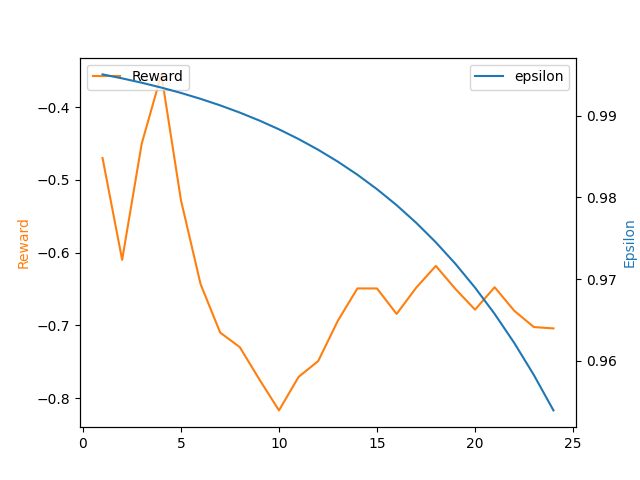
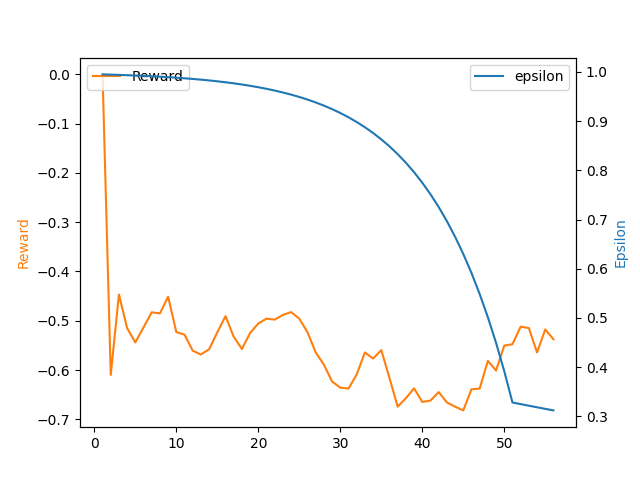
more clean up

diff --git a/sumo_mmrl/environment/env.py b/sumo_mmrl/environment/env.py
@@ -4,6 +4,7 @@ import numpy as np
 from .vehicle import Vehicle
 from .person import Person
 from ..connector.connect import SUMOConnection
+from ..connector.utility import Utility
 
 
 class Basic:
@@ -13,18 +14,17 @@ class Basic:
     _extended_summary_
     """
 
-    def __init__(self, sumocon: str, steps_per_episode) -> None:
-        self.sumo_con = SUMOConnection(sumocon)
-        (
-            self.out_dict,
+    def __init__(self, path, sumocon, steps_per_episode) -> None:
+        self.util = Utility()
+        self.sumo_con = SUMOConnection(path + sumocon)
+        (   self.out_dict,
             self.index_dict,
             self.edge_list,
             self.edge_position,
         ) = self.sumo_con.get_edges_info()
 
         self.steps_per_episode = steps_per_episode
-        self.episode_count = 0
-        
+
         self.done = False
         self.make_choice_flag = False
         self.vehicle = None
@@ -35,6 +35,14 @@ class Basic:
         self.agent_step = 0
         self.old_edge = None
         self.sumo = None
+        self.path = path
+        self.accumulated_reward = 0
+        self.rewards = []
+        self.eps_history = []
+        self.vehicles = []
+        
+        # for v_id in range(10):
+        #     self.vehicles.append(Vehicle(str(v_id), self.out_dict, self.index_dict, self.sumo))
 
     def reset(self):
         """
@@ -48,9 +56,12 @@ class Basic:
         self.steps = 0
         self.agent_step = 0
         self.route = []
-        # self.sumo.simulationStep()
-
-        self.vehicle = Vehicle("1", self.out_dict, self.index_dict, self.sumo)
+        self.vehicles = []
+        self.accumulated_reward = 0
+        for v_id in range(1):
+            self.vehicles.append(Vehicle(str(v_id), self.out_dict, self.index_dict, self.sumo))
+        self.vehicle = self.vehicles[0]
+        
         # self.vehicle.random_relocate()
         self.sumo.simulationStep()
         self.steps += 1
@@ -94,16 +105,14 @@ class Basic:
         """
         self.sumo.simulationStep()
         self.steps += 1
-        
-        vedge = self.sumo.vehicle.getRoadID("1")
-        pedge = self.sumo.person.getRoadID("p_0")
+
+        vedge = self.sumo.vehicle.getRoadID(self.vehicle.vehicle_id)
 
         if ":" in vedge or self.old_edge == vedge:
             self.make_choice_flag = False
         else:
             self.make_choice_flag = True
-        if vedge == pedge:
-            self.done = True
+
         if self.steps >= self.steps_per_episode:
             self.done = True
 
@@ -121,23 +130,24 @@ class Basic:
         Returns:
             _description_
         """
-        
+
         reward = 0
         if self.make_choice_flag:
             self.vehicle.set_destination(action)
             reward += -0.01
+            self.accumulated_reward += reward
             self.agent_step += 1
             self.make_choice_flag = False
-        
+
         self.sumo.simulationStep()
         self.steps += 1
-        vedge = self.sumo.vehicle.getRoadID("1")
+        vedge = self.sumo.vehicle.getRoadID(self.vehicle.vehicle_id)
         vloc = self.vehicle.location()
         ploc = self.person.location()
         choices = self.vehicle.get_out_dict()
         distance = math.dist(vloc, ploc)
 
-        vedge = self.sumo.vehicle.getRoadID("1")
+        vedge = self.sumo.vehicle.getRoadID(self.vehicle.vehicle_id)
         pedge = self.sumo.person.getRoadID("p_0")
         self.route.append(vedge)
 
@@ -145,21 +155,18 @@ class Basic:
 
         if vedge == pedge:
             self.done = True
-            reward += 0.01
+            reward += 0.11
+            self.accumulated_reward += reward
         if self.steps >= self.steps_per_episode:
             self.done = True
-            reward += -0.01
+            reward += -0.1
+            self.accumulated_reward += reward
 
         state = np.array([])
-        # state = np.append(state, self.vehicle_lane_index)
-        # state = np.append(state, self.person_lane_index)
         state = np.append(state, vloc)
         state = np.append(state, ploc)
         state = np.append(state, self.agent_step)
         state = np.append(state, distance)
-
-        # reward = np.array([])
-        # reward = np.append(reward, self.reward)
 
         self.old_edge = vedge
         while not self.make_choice_flag and not self.done:
@@ -184,17 +191,51 @@ class Basic:
         elif mode == "no_gui":
             self.sumo = self.sumo_con.connect_no_gui()
 
-        return
+    def c_l_output(self, episode, epsilon):
+        """
+        c_l_output _summary_
 
-    def close(self):
+        _extended_summary_
+        """
+        acc_r = self.accumulated_reward
+        acc_r = float(self.accumulated_reward)
+
+        self.rewards.append(acc_r)
+
+        self.eps_history.append(epsilon)
+        avg_reward = np.mean(self.rewards[-100:])
+
+        print(
+            "EP: ",
+            episode,
+            f"Reward: {acc_r:.3}",
+            f" Average Reward  {avg_reward:.3}",
+            f"epsilon {epsilon:.5}",
+            f" **** step: {self.steps}",
+            f"*** Agent steps: {self.agent_step}",
+        )
+
+    def chart_output(self):
+        """
+        chart_output _summary_
+
+        _extended_summary_
+        """
+        x = [i + 1 for i in range(len(self.rewards))]
+        file_name = self.path + "/Graphs/sumo-agent.png"
+
+        self.util.plot_learning(x, self.rewards, self.eps_history, file_name)
+
+    def close(self, episode, epsilon):
         """
         close _summary_
 
         _extended_summary_
         """
         self.sumo.close()
+        self.c_l_output(episode, epsilon)
+        self.chart_output()
         # print(len(self.best_route))
         # print(self.best_route)
         # print(len(self.route))
         # print(self.route)
-        return

diff --git a/sumo_mmrl/environment/vehicle.py b/sumo_mmrl/environment/vehicle.py
@@ -39,12 +39,12 @@ class Vehicle:
         self.out_dict = out_dict
         self.index_dict = index_dict
         self.sumo = sumo
+        
+        self.sumo.vehicle.add(self.vehicle_id,"r_0", typeID='taxi')
+        
+        
         self.current_lane = self.sumo.vehicle.getLaneID(self.vehicle_id)
         self.cur_loc = self.current_lane.partition("_")[0]
-
-        # if ':' not in self.cur_loc:
-        #     self.outlist=list(self.out_dict[self.cur_loc].keys())
-        #     self.outlane=list(self.out_dict[self.cur_loc].values())
 
     def get_lane(self):
         """
@@ -71,32 +71,6 @@ class Vehicle:
         """
         vpos = self.sumo.vehicle.getPosition(self.vehicle_id)
         return [vpos[0], vpos[1]]
-
-    def is_indexed_lane(self):
-        """
-        is_indexed_lane _summary_
-
-        _extended_summary_
-
-        Returns:
-            _type_: _description_
-        """
-        current_lane = self.get_lane()
-        if current_lane == "":
-            return False
-
-        if ":" not in current_lane:
-            return True
-        else:
-            return False
-
-        # def get_stats(self):
-        #     current_lane=self.get_lane()
-        #     current_location=current_lane.partition("_")[0]
-        #     if ':' not in current_lane :
-        #         return
-
-        return
 
     def get_out_dict(self):
         """
@@ -154,7 +128,6 @@ class Vehicle:
         _extended_summary_
         """
         self.sumo.close()
-        return
 
     def random_relocate(self):
         """
@@ -165,4 +138,3 @@ class Vehicle:
         new_lane = random.choice(list(self.index_dict.keys()))
         self.sumo.vehicle.changeTarget(self.vehicle_id, edgeID=new_lane)
         self.sumo.vehicle.moveTo(self.vehicle_id, new_lane + "_0", 5)
-        return

diff --git a/sumo_mmrl/connector/connect.py b/sumo_mmrl/connector/connect.py
@@ -3,9 +3,7 @@ import sys
 import os
 import xml.etree.ElementTree as ET
 import traci
-
 import sumolib
-
 import libsumo
 
 if "SUMO_HOME" in os.environ:
@@ -28,10 +26,8 @@ class SUMOConnection:
         self.label = str(SUMOConnection.CONNECTION_LABEL)
         SUMOConnection.CONNECTION_LABEL += 1
         self.sumocfg = sumocfg
-        self.sumo_=None
-        self.sumo_cmd=None
-
-    # do i need the dconnection label?
+        self.sumo_ = None
+        self.sumo_cmd = None
 
     def connect_gui(self):
         """_summary_
@@ -49,6 +45,7 @@ class SUMOConnection:
         ]
         traci.start(self.sumo_cmd, label=self.label)
         self.sumo_ = traci
+        # self.sumo_.addStepListener(self.listener)
         return self.sumo_
 
     def connect_libsumo_no_gui(self):
@@ -67,6 +64,7 @@ class SUMOConnection:
         ]
         libsumo.start(self.sumo_cmd, label=self.label)
         self.sumo_ = libsumo
+        # self.sumo_.addStepListener(self.listener)
         return self.sumo_
 
     def connect_no_gui(self):
@@ -85,6 +83,7 @@ class SUMOConnection:
         ]
         traci.start(self.sumo_cmd, label=self.label)
         self.sumo_ = traci
+        # self.sumo_.addStepListener(self.listener)
         return self.sumo_
 
     def close(self):
@@ -123,7 +122,7 @@ class SUMOConnection:
         net_file = self.parse_net_files()
         path_ = self.sumocfg.rsplit("/")
         path_.pop()
-        path_b= "/".join(path_)
+        path_b = "/".join(path_)
         net = sumolib.net.readNet(path_b + "/" + net_file)
         out_dict = {}
         length_dict = {}

diff --git a/test.py b/test.py
@@ -1,10 +1,5 @@
 """ import stuff """
-import numpy as np
-from sumo_mmrl import Basic, Utility, Agent
-
-# from Connector.utility import Utility
-# from Agent.agent import Agent
-
+from sumo_mmrl import Basic, Agent
 
 EPISODES = 100
 STEPS = 1000
@@ -20,11 +15,8 @@ def main():
 
     _extended_summary_
     """
-    path = EXPERIMENT_PATH + SUMOCONFIG
-    env = Basic(path, STEPS)
+    env = Basic(EXPERIMENT_PATH , SUMOCONFIG, STEPS)
     agent = Agent(6, 4,EXPERIMENT_PATH)
-    util = Utility()
-    rewards, eps_history = [], []
 
     for episode in range(EPISODES):
 
@@ -53,32 +45,9 @@ def main():
             if len(agent.memory) > BATCH_SIZE:
                 agent.replay(BATCH_SIZE)
 
-        # agent.epsilon_decay()
         agent.epsilon_decay_2(episode, EPISODES)
 
-        acc_r = float(accumulated_reward)
-        # r = float(new_reward)
-        rewards.append(acc_r)
-
-        eps_history.append(agent.epsilon)
-        avg_reward = np.mean(rewards[-100:])
-
-        # avg_reward = np.mean(rewards)
-
-        print(
-            "EP: ",
-            episode,
-            f"Reward: {acc_r:.3}",
-            f" Average Reward  {avg_reward:.3}",
-            f"epsilon {agent.epsilon:.5}",
-            f" **** step: {env.steps}",
-            f"*** Agent steps: {env.agent_step}",
-        )
-        x = [i + 1 for i in range(len(rewards))]
-        file_name = EXPERIMENT_PATH+"/Graphs/sumo-agent.png"
-
-        util.plot_learning(x, rewards, eps_history, file_name)
-        env.close()
+        env.close(episode, agent.epsilon)
 
 
 if __name__ == "__main__":
